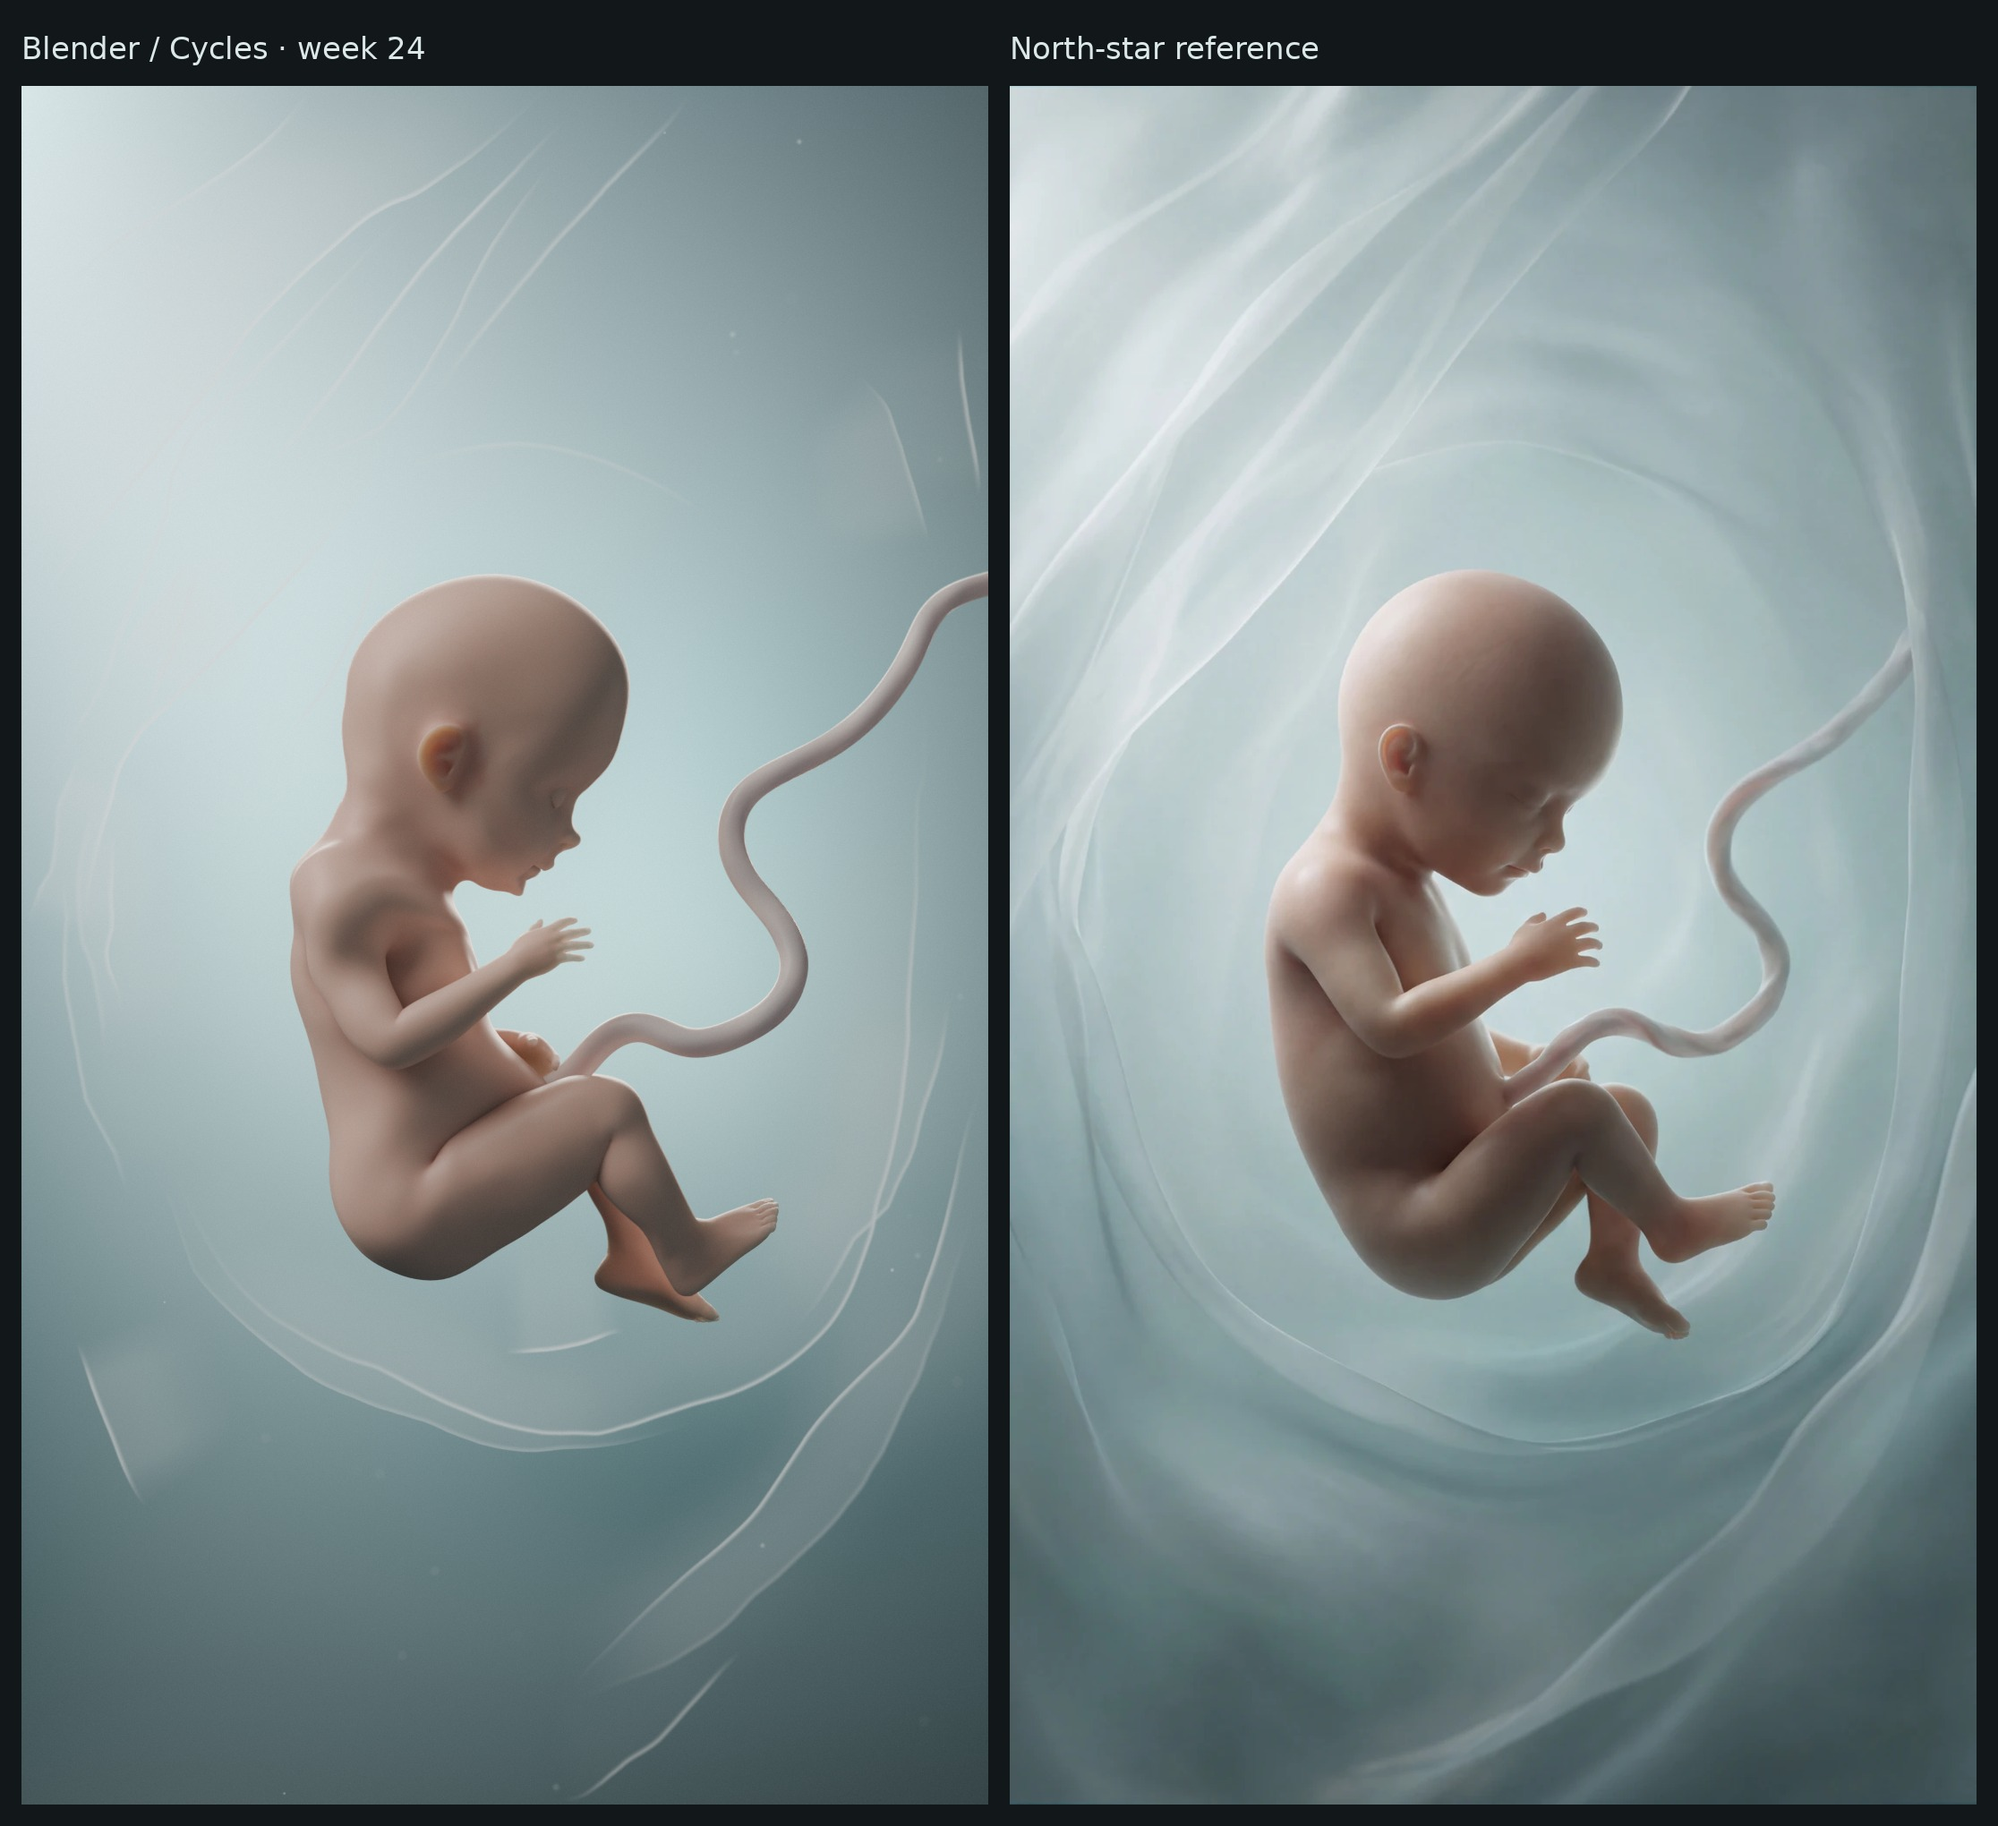
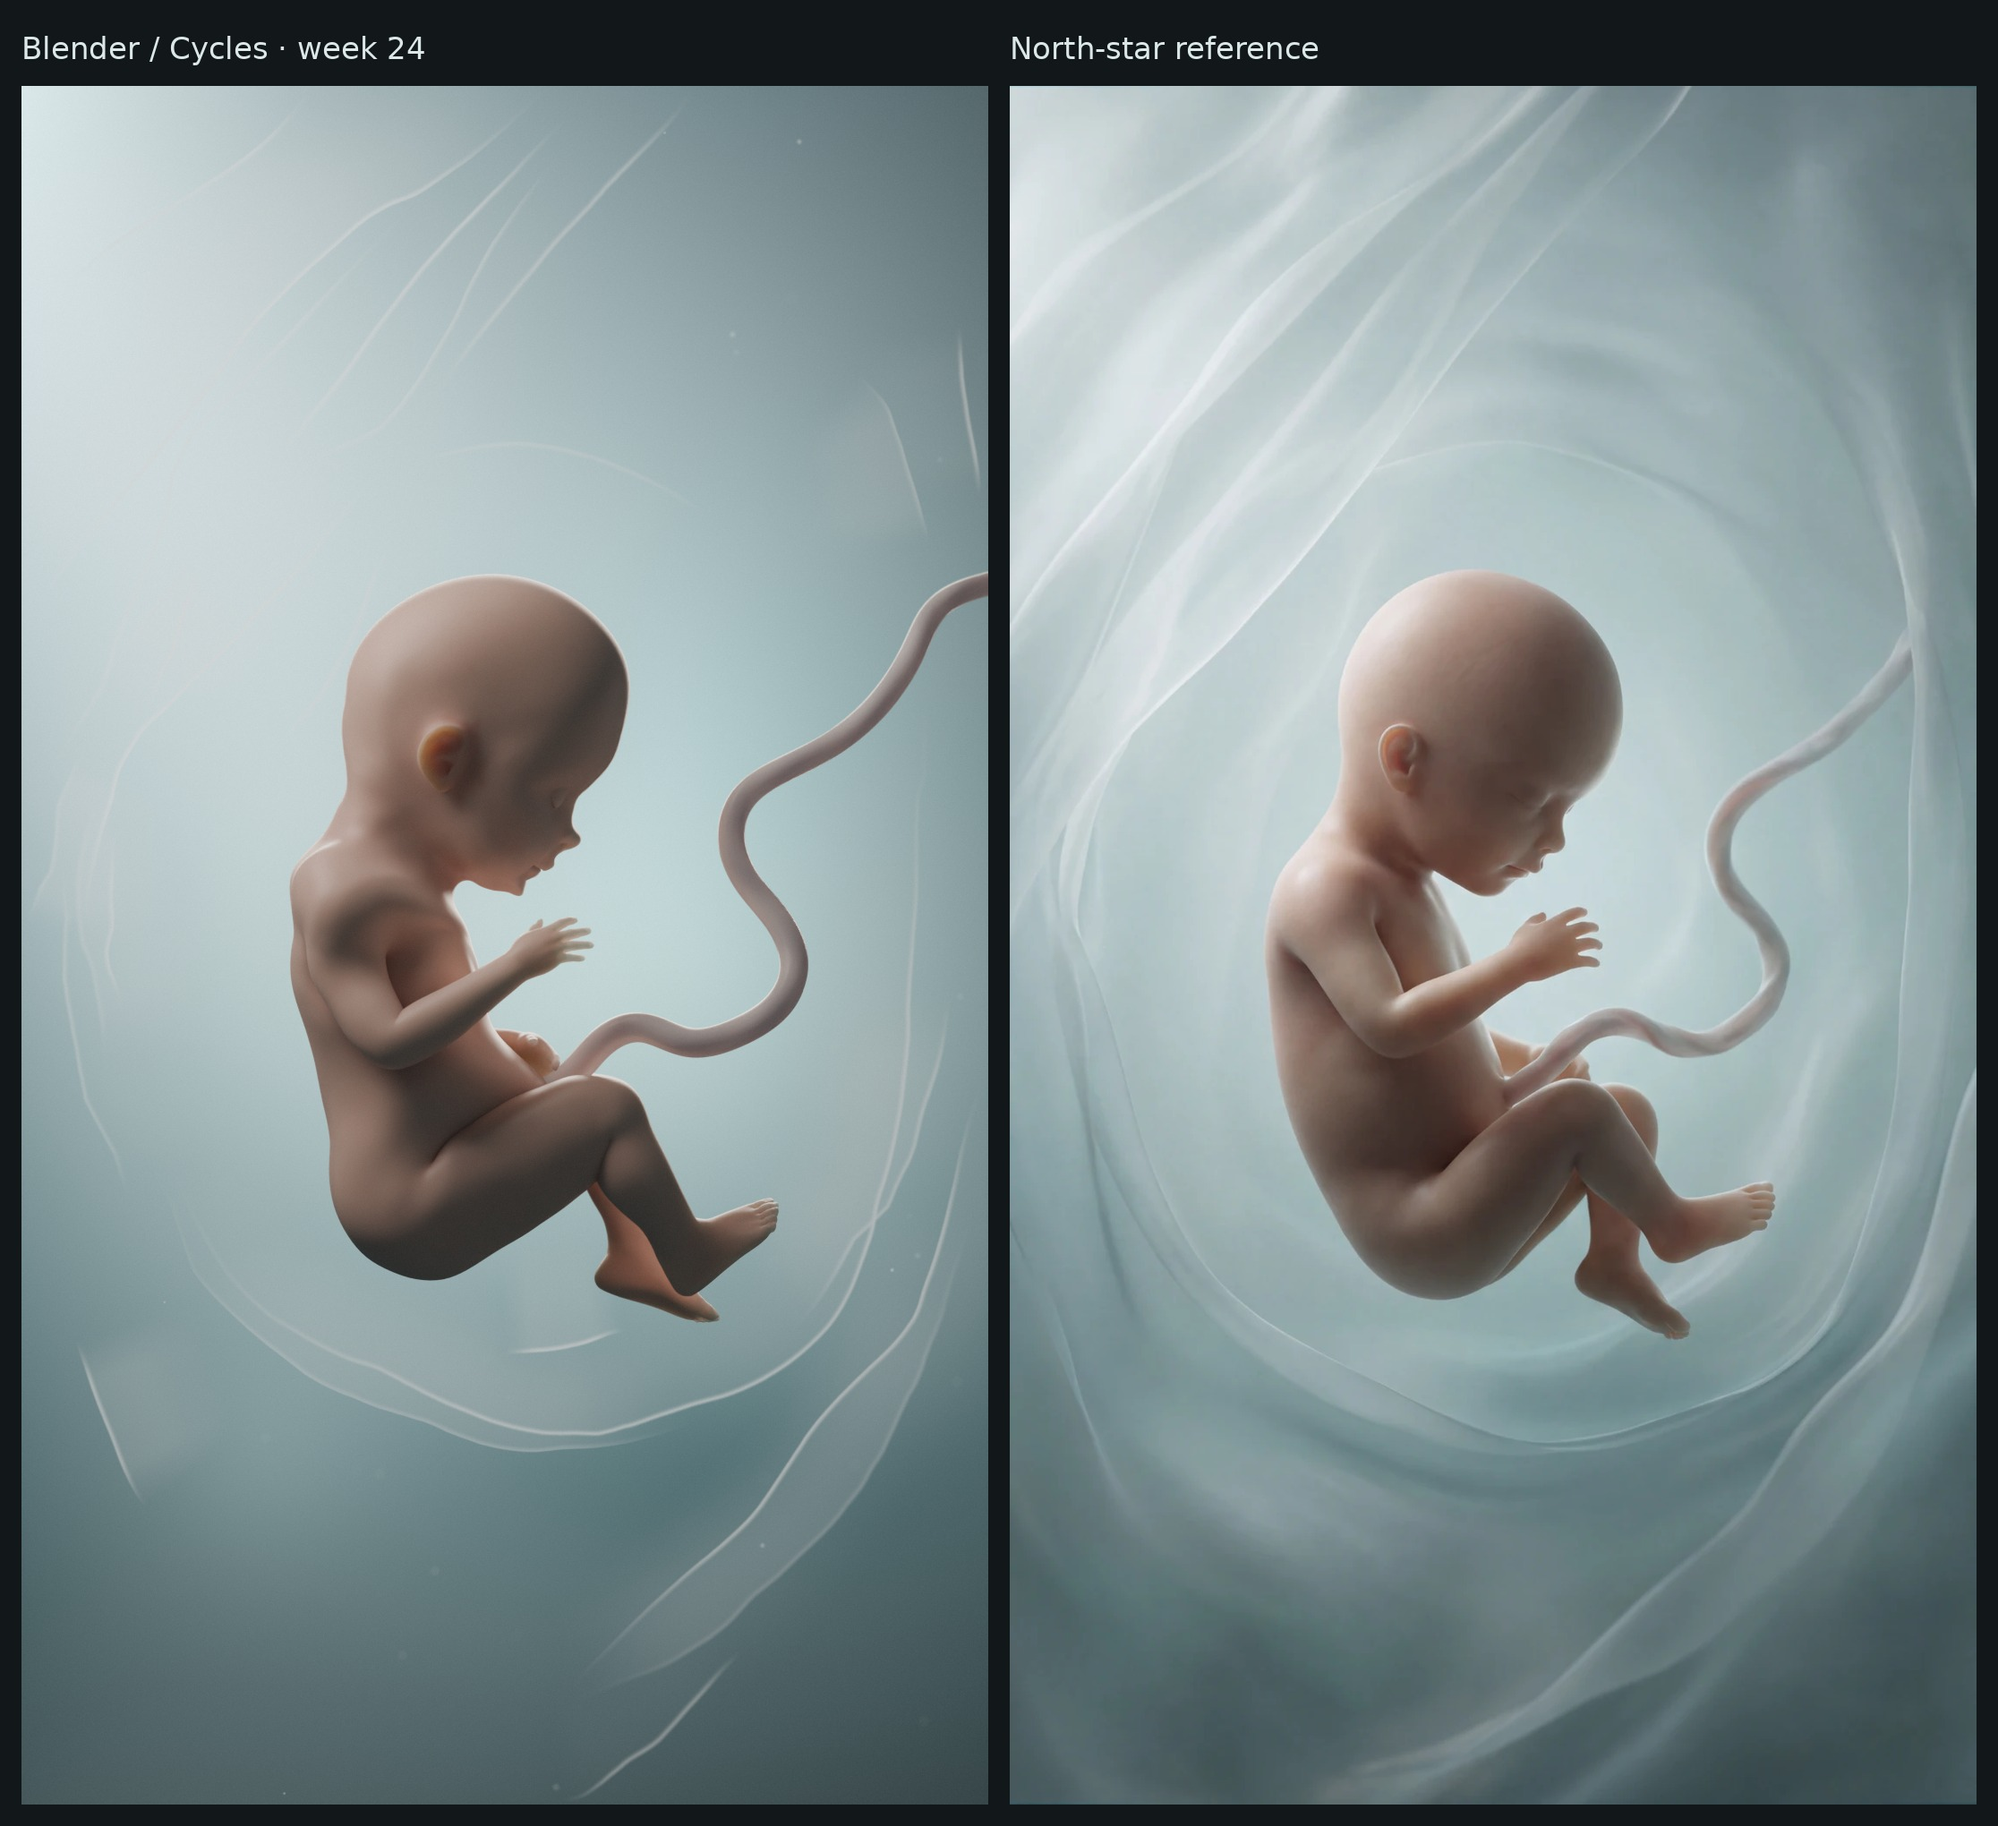
Fetal Growth Explorer: key light falloff from crown to feet
A close key (0.3 m above-left of the head, aimed at it) replaces the distant
soft key: its falloff leaves the lower body in shade as in the reference.
Measured on the fetus interior against the reference: head/torso/legs
+7/+15/+34 -> -7/-7/+12 levels; crown and forehead now within 2 levels.
Fill 1 W, bounce 0.3 W. Backdrop corrections re-calibrated (residual 5.2).
render_stages --keep-raw keeps the Cycles pass for grading tests.

Claude-Session: https://claude.ai/code/session_012GPESLoAzkgxi7MKnnsx3V

diff --git a/fetal-growth-explorer/blender/scripts/fge/lookdev.py b/fetal-growth-explorer/blender/scripts/fge/lookdev.py
@@ -110,18 +110,19 @@ def area_light(name, location, target, color_hex, energy, size, shape="DISK", co
 
 def make_lights(target=(0.0, 0.0, 0.02)):
     col = collection("LIGHTS")
-    # Large soft warm key from the upper left (45° up, a little in front): the
-    # crown and back read bright and the face, turned down and away, falls
-    # into soft shade, the reference's light balance. Size 1.6 m keeps the
-    # terminator across the skull soft.
-    area_light("LGT_Key", (-1.13, -0.30, 1.13), target, "#FFE6D8", 90.0, 1.6, col=col)
+    # Warm key close above-left of the head (0.3 m, 45° up, a little in front),
+    # aimed at the head: its falloff leaves the lower body in shade, the
+    # reference's light gradient from crown to feet (measured per region on
+    # the fetus interior: head/torso/legs within a few levels of the reference
+    # instead of +7/+15/+34 with a distant key).
+    area_light("LGT_Key", (-0.220, -0.056, 0.287), (-0.01, 0.0, 0.08), "#FFE6D8", 3.05, 0.294, col=col)
     # Neutral fill low from the front-right lifts the face and belly.
-    area_light("LGT_Fill", (0.90, -1.00, 0.10), target, "#E2E4DF", 3.0, 1.4, col=col)
+    area_light("LGT_Fill", (0.90, -1.00, 0.10), target, "#E2E4DF", 1.0, 1.4, col=col)
     # Soft back light straight behind: a thin environment-like edge all round,
     # and SSS glow through ears, fingers and toes.
     area_light("LGT_Rim", (0.05, 1.00, 0.30), target, "#FFE2D0", 80.0, 0.8, col=col)
     # Faint low bounce so the underside never goes muddy.
-    area_light("LGT_Bounce", (0.20, -0.80, -0.90), target, "#C9BDB5", 1.5, 1.2, col=col)
+    area_light("LGT_Bounce", (0.20, -0.80, -0.90), target, "#C9BDB5", 0.3, 1.2, col=col)
 
 
 def make_camera(scene, cam: Camera = HERO, focus_point=(0.0185, -0.013, 0.040), name="CAM_Hero"):

diff --git a/fetal-growth-explorer/blender/scripts/render_stages.py b/fetal-growth-explorer/blender/scripts/render_stages.py
@@ -59,6 +59,7 @@ def main():
     ap.add_argument("--week", type=int, default=24)
     ap.add_argument("--samples", type=int, default=256)
     ap.add_argument("--percent", type=int, default=100)
+    ap.add_argument("--keep-raw", action="store_true", help="keep the unfinished Cycles pass (for grading tests)")
     args = ap.parse_args()
     RENDERS.mkdir(parents=True, exist_ok=True)
     bpy.ops.wm.open_mainfile(filepath=str(MASTER))
@@ -70,7 +71,8 @@ def main():
     bpy.ops.render.render(write_still=True)
     final = RENDERS / f"render_W{args.week:02d}.png"
     post.save(post.finish(post.load_png(raw)), final)
-    raw.unlink()
+    if not args.keep_raw:
+        raw.unlink()
     print(f"[fge] wrote {final}")
     if args.week == 24:
         side_by_side(final, RENDERS / "lookdev_W24_vs_reference.jpg")
